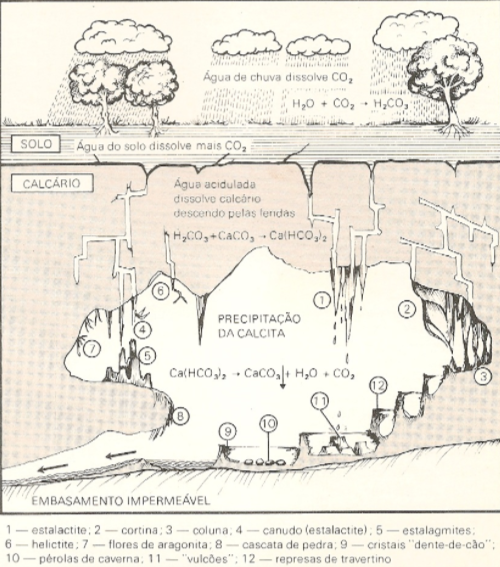
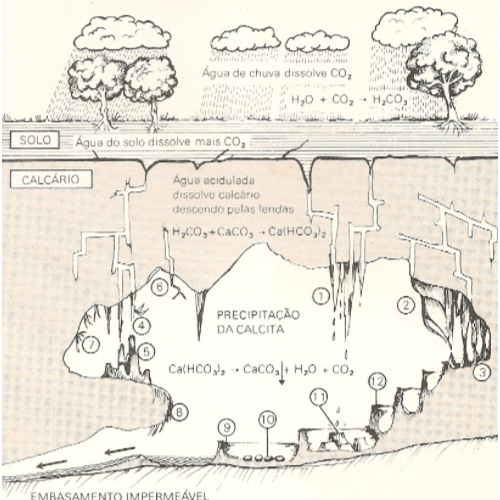
Ajuste finais Adicionado formacao de gruta curiosidades possui 3 topicos mapa adicionado

diff --git a/src/br/com/PalleorrotasDePeterLund/view/estilo.css b/src/br/com/PalleorrotasDePeterLund/view/estilo.css
@@ -44,3 +44,9 @@
 .font-texto{
     -fx-font-size:14px;
 }
+
+.loader{
+    -fx-background-image: url("image/Gruta-do-Maquine.jpg");
+    -fx-background-repeat: no-repeat;
+    -fx-effect: dropshadow(one-pass-box, black, 30, 0.5, 0, 1);
+}

diff --git a/src/br/com/PalleorrotasDePeterLund/view/VisualizarGrutaController.java b/src/br/com/PalleorrotasDePeterLund/view/VisualizarGrutaController.java
@@ -25,16 +25,31 @@ import javafx.beans.value.ObservableValue;
 import javafx.event.Event;
 import javafx.fxml.FXML;
 import javafx.fxml.Initializable;
+import javafx.geometry.Insets;
 import javafx.scene.control.Label;
 import javafx.scene.control.Pagination;
 import javafx.scene.image.Image;
 import javafx.scene.image.ImageView;
 import javafx.scene.input.MouseEvent;
 import javafx.scene.layout.AnchorPane;
+import javafx.scene.layout.Background;
+import javafx.scene.layout.BackgroundFill;
+import javafx.scene.layout.BackgroundImage;
+import javafx.scene.layout.BackgroundPosition;
+import javafx.scene.layout.BackgroundRepeat;
+import javafx.scene.layout.BackgroundSize;
+import javafx.scene.layout.CornerRadii;
 import javafx.scene.layout.FlowPane;
-import javafx.scene.layout.GridPane;
 import javafx.scene.layout.StackPane;
+import javafx.scene.paint.Color;
+import javafx.scene.text.Font;
+import javafx.scene.text.FontPosture;
+import javafx.scene.text.FontWeight;
+import javafx.scene.text.Text;
+import javafx.scene.text.TextAlignment;
+import javafx.scene.text.TextFlow;
 import javafx.scene.web.WebView;
+import javassist.bytecode.ByteArray;
 import org.controlsfx.control.InfoOverlay;
 import org.controlsfx.control.PopOver;
 
@@ -53,8 +68,10 @@ public class VisualizarGrutaController implements Initializable {
     private FlowPane fpFotos;
     @FXML
     private Pagination pgFotos;
+//    @FXML
+//    private WebView wvConteudo;
     @FXML
-    private WebView wvConteudo;
+    private TextFlow tfConteudo;
     @FXML
     private StackPane spImageTexto;
     @FXML
@@ -76,19 +93,29 @@ public class VisualizarGrutaController implements Initializable {
         Platform.runLater(() -> {
             gruta = (Gruta) apPrincipal.getUserData();
             lbTitulo.setText(gruta.getNome());
-            wvConteudo.getEngine().loadContent("<html><head><style>"
-                    + "body {"
-                    + "background-color: #EFFEBA;"
-                    + "color:black;"
-                    + "}"
-                    + "div{"
-                    + "text-align: justify;"
-                    + "}"
-                    + "</style>"
-                    + "<head><body><div>" + gruta.getConteudo());
+
+//            wvConteudo.getEngine().loadContent("<html><head><style>"
+//                    + "body {"
+//                    + "background-color: #EFFEBA;"
+////                    + "background-color: transparent;"
+//                    + "color:white;"
+//                    + "}"
+//                    + "div{"
+//                    + "text-align: justify;"
+//                    + "}"
+//                    + "</style>"
+//                    + "<head><body><div>" + gruta.getConteudo());
+            Text text = new Text(gruta.getConteudo());
+            text.setFont(Font.font(Font.getDefault().getFamily(), FontWeight.BOLD, FontPosture.REGULAR, 20));
+            text.setFill(Color.WHITE);
+            text.setTextAlignment(TextAlignment.JUSTIFY);
+            tfConteudo.setTextAlignment(TextAlignment.JUSTIFY);
+            tfConteudo.getChildren().add(text);
+            tfConteudo.setBackground(new Background(new BackgroundFill(new Color(0, 0, 0, 0.2), CornerRadii.EMPTY, Insets.EMPTY)));
             List<GrutaImagem> grutaImagens = new GrutaImagemDAO().pegarPorGrutaTexto(gruta, true);
             if (!grutaImagens.isEmpty()) {
                 ImageView imageView = new ImageView(new Image(new ByteArrayInputStream(grutaImagens.get(0).getId().getImagem().getImagem())));
+                apConteudo.setBackground(new Background(new BackgroundImage(new Image(new ByteArrayInputStream(grutaImagens.get(0).getId().getImagem().getImagem())), BackgroundRepeat.NO_REPEAT, BackgroundRepeat.NO_REPEAT, BackgroundPosition.CENTER, new BackgroundSize(BackgroundSize.AUTO, BackgroundSize.AUTO, true, true, true, true))));
                 imageView.setPreserveRatio(true);
                 imageView.setFitWidth(400);
                 imageView.setSmooth(true);
@@ -107,7 +134,7 @@ public class VisualizarGrutaController implements Initializable {
     private void tbFotoOnSelectionChanged(Event event) {
         if (imagens == null || imagens.isEmpty()) {
             imagens = new GrutaImagemDAO().pegarPorGruta(gruta);
-            COLUNA=(int) fpFotos.getWidth()/310;
+            COLUNA = (int) fpFotos.getWidth() / 310;
             pgFotos.setPageCount((int) Math.ceil(imagens.size() / (double) (LINHA * COLUNA)));
             carregarImageViews();
             limparImageView();

diff --git a/src/br/com/PalleorrotasDePeterLund/view/MapaInterativoController.java b/src/br/com/PalleorrotasDePeterLund/view/MapaInterativoController.java
@@ -5,9 +5,18 @@
  */
 package br.com.PalleorrotasDePeterLund.view;
 
+import br.com.PalleorrotasDePeterLund.control.ImageFactory;
 import java.net.URL;
 import java.util.ResourceBundle;
+import javafx.application.Platform;
+import javafx.fxml.FXML;
 import javafx.fxml.Initializable;
+import javafx.scene.image.ImageView;
+import javafx.scene.input.MouseEvent;
+import javafx.scene.layout.AnchorPane;
+import javafx.scene.shape.Rectangle;
+import javafx.scene.text.Text;
+import org.controlsfx.control.PopOver;
 
 /**
  * FXML Controller class
@@ -16,12 +25,77 @@ import javafx.fxml.Initializable;
  */
 public class MapaInterativoController implements Initializable {
 
+    @FXML
+    private AnchorPane apPrincipal;
+    @FXML
+    private ImageView ivFoto;
+
+    private PopOver poInformacao;
+
+    private boolean mapa;
+
+    private Text tDescricao;
+
     /**
      * Initializes the controller class.
      */
     @Override
     public void initialize(URL url, ResourceBundle rb) {
-        // TODO
-    }    
-    
+        tDescricao = new Text();
+        poInformacao = new PopOver(tDescricao);
+    }
+
+    @FXML
+    private void rcMaquineMouseEvent(MouseEvent mouseEvent) {
+        if (mapa) {
+            ivFoto.setImage(ImageFactory.loadImage("mapa.jpg"));
+            mapa = false;
+        } else {
+            mostrarConteudo("maquine.png", " distância da Gruta Maquiné à Belo Horizonte é 132km", mouseEvent.getScreenX(), mouseEvent.getSceneY());
+            Platform.runLater(() -> {
+                mapa = true;
+            });
+        }
+    }
+
+    @FXML
+    private void rcLapinhaMouseEvent(MouseEvent mouseEvent) {
+        if (mapa) {
+            ivFoto.setImage(ImageFactory.loadImage("mapa.jpg"));
+            mapa = false;
+        } else {
+            mostrarConteudo("sete lagoa.png", "A distância da Gruta da lapinha à Belo Horizonte é 52km", mouseEvent.getScreenX(), mouseEvent.getSceneY());
+            Platform.runLater(() -> {
+                mapa = true;
+            });
+        }
+    }
+
+    @FXML
+    private void rcReiDoMatMouseEvent(MouseEvent mouseEvent) {
+        if (mapa) {
+            ivFoto.setImage(ImageFactory.loadImage("mapa.jpg"));
+            mapa = false;
+        } else {
+            mostrarConteudo("rei do mato.png", "A distância da Gruta do Rei do Mato à Belo Horizonte é 69km", mouseEvent.getScreenX(), mouseEvent.getSceneY());
+            Platform.runLater(() -> {
+                mapa = true;
+
+            });
+        }
+    }
+
+    @FXML
+    private void ivFotoMouseEvent(MouseEvent mouseEvent) {
+        if (mapa && !(mouseEvent.getSource() instanceof Rectangle)) {
+            ivFoto.setImage(ImageFactory.loadImage("mapa.jpg"));
+            mapa = false;
+        }
+    }
+
+    private void mostrarConteudo(String imagem, String descricao, double x, double y) {
+        ivFoto.setImage(ImageFactory.loadImage(imagem));
+        tDescricao.setText("  "+descricao+"  ");
+        poInformacao.show(ivFoto, x, y);
+    }
 }

diff --git a/src/br/com/PalleorrotasDePeterLund/view/PovoDeLuziaController.java b/src/br/com/PalleorrotasDePeterLund/view/PovoDeLuziaController.java
@@ -8,6 +8,7 @@ package br.com.PalleorrotasDePeterLund.view;
 import br.com.PalleorrotasDePeterLund.control.ImageFactory;
 import java.net.URL;
 import java.util.ResourceBundle;
+import javafx.application.Platform;
 import javafx.fxml.FXML;
 import javafx.fxml.Initializable;
 import javafx.scene.image.ImageView;
@@ -33,13 +34,18 @@ public class PovoDeLuziaController implements Initializable {
      */
     @Override
     public void initialize(URL url, ResourceBundle rb) {
-        ImageView imageView=new ImageView(ImageFactory.loadImage("conteudo/povoDeLuzia.png"));
-        imageView.setFitWidth(300);
-        InfoOverlay infoOverlay = new InfoOverlay(imageView, "Crânios de Lagoa Santa: ossadas da região mineira serviram para formular teoria alternativa de povoamento das Américas\n"
-                + "\n"
-                + "Fonte : Pesquisa FAPESP - A América de Luzia\n"
-                + "Disponível em: http://revistapesquisa.fapesp.br/2012/08/22/a-am%C3%A9rica-de-luzia/");
-        spFoto.getChildren().add(infoOverlay);
+        Platform.runLater(() -> {
+            ImageView imageView = new ImageView(ImageFactory.loadImage("conteudo/povoDeLuzia.png"));
+            imageView.setFitWidth(450);
+            System.out.println(spFoto.getHeight());
+            imageView.setFitHeight(600);
+            imageView.setPreserveRatio(false);
+            InfoOverlay infoOverlay = new InfoOverlay(imageView, "Crânios de Lagoa Santa: ossadas da região mineira serviram para formular teoria alternativa de povoamento das Américas\n"
+                    + "\n"
+                    + "Fonte : Pesquisa FAPESP - A América de Luzia\n"
+                    + "Disponível em: http://revistapesquisa.fapesp.br/2012/08/22/a-am%C3%A9rica-de-luzia/");
+            spFoto.getChildren().add(infoOverlay);
+        });
     }
 
 }

diff --git a/src/br/com/PalleorrotasDePeterLund/view/LuziaController.java b/src/br/com/PalleorrotasDePeterLund/view/LuziaController.java
@@ -6,12 +6,19 @@
 package br.com.PalleorrotasDePeterLund.view;
 
 import br.com.PalleorrotasDePeterLund.control.ImageFactory;
+import java.io.ByteArrayInputStream;
 import java.net.URL;
 import java.util.ResourceBundle;
 import javafx.fxml.FXML;
 import javafx.fxml.Initializable;
+import javafx.scene.image.Image;
 import javafx.scene.image.ImageView;
 import javafx.scene.layout.AnchorPane;
+import javafx.scene.layout.Background;
+import javafx.scene.layout.BackgroundImage;
+import javafx.scene.layout.BackgroundPosition;
+import javafx.scene.layout.BackgroundRepeat;
+import javafx.scene.layout.BackgroundSize;
 import javafx.scene.layout.StackPane;
 import org.controlsfx.control.InfoOverlay;
 
@@ -34,7 +41,9 @@ public class LuziaController implements Initializable {
     public void initialize(URL url, ResourceBundle rb) {
         // TODO
         ImageView imageView = new ImageView(ImageFactory.loadImage("conteudo/luzia.jpg"));
-        imageView.setFitWidth(300);
+        imageView.setFitWidth(450);
+        imageView.setFitHeight(600);
+        imageView.setPreserveRatio(false);
         InfoOverlay infoOverlay = new InfoOverlay(imageView, "Fonte: Fósseis no Brasil - Luzia.\n"
                 + "\n"
                 + "Disponível em: http://www.uol/noticias/especiais/fosseis-no-brasil-onde-estao-registros-humanos-antigos-no-pais.htm#o-brasil-nao-foi-descoberto-em-1500");

diff --git a/src/br/com/PalleorrotasDePeterLund/view/GeologiaRegionalController.java b/src/br/com/PalleorrotasDePeterLund/view/GeologiaRegionalController.java
@@ -5,11 +5,15 @@
  */
 package br.com.PalleorrotasDePeterLund.view;
 
+import br.com.PalleorrotasDePeterLund.control.ImageFactory;
 import java.net.URL;
 import java.util.ResourceBundle;
 import javafx.fxml.FXML;
 import javafx.fxml.Initializable;
+import javafx.scene.image.ImageView;
 import javafx.scene.layout.AnchorPane;
+import javafx.scene.layout.StackPane;
+import org.controlsfx.control.InfoOverlay;
 
 /**
  * FXML Controller class
@@ -20,13 +24,22 @@ public class GeologiaRegionalController implements Initializable {
 
     @FXML
     private AnchorPane apPrincipal;
-    
+    @FXML
+    private StackPane spImagem;
+
     /**
      * Initializes the controller class.
      */
     @Override
     public void initialize(URL url, ResourceBundle rb) {
-        // TODO
+        ImageView imageView = new ImageView(ImageFactory.loadImage("conteudo/Foto da Geologia do Bambuí .png"));
+        imageView.setFitWidth(450);
+        imageView.setFitHeight(600);
+        InfoOverlay infoOverlay = new InfoOverlay(imageView, "Coluna estratigráfica do Grupo Bambuí\n"
+                + "(sensu Dardenne, 1978). O Conglomerado Carrancas\n"
+                + "foi representado na base, embora não constitua\n"
+                + "unidade formal em função de sua ocorrência restrita.");
+        spImagem.getChildren().add(infoOverlay);
     }
 
 }

diff --git a/src/br/com/PalleorrotasDePeterLund/view/FormacaoGrutaController.java b/src/br/com/PalleorrotasDePeterLund/view/FormacaoGrutaController.java
@@ -5,6 +5,7 @@
  */
 package br.com.PalleorrotasDePeterLund.view;
 
+import br.com.PalleorrotasDePeterLund.control.ImageFactory;
 import java.net.URL;
 import java.util.ResourceBundle;
 import javafx.fxml.FXML;
@@ -31,8 +32,9 @@ public class FormacaoGrutaController implements Initializable {
      */
     @Override
     public void initialize(URL url, ResourceBundle rb) {
-        ImageView imageView=new ImageView(new Image(getClass().getResourceAsStream("/br/com/PalleorrotasDePeterLund/view/image/comoForma.png")));
-        imageView.setFitWidth(350);
+        ImageView imageView=new ImageView(ImageFactory.loadImage("comoForma.png"));
+        imageView.setFitWidth(450);
+        imageView.setFitHeight(600);
         InfoOverlay infoOverlay=new InfoOverlay(imageView," 1- estalactite; 2- cortina; 3- coluna; 4-canudo(estalactite) 5- estalagmites, 6-helictite; 7- flores de aragonita; 8- casacata de pedra; 9- cristais \"dente-de-cão\" 10- pérolas de caverna; 11- \"vulcões\" 12- represesas travertino "
                 + "\nFonte: Cavernas Brasileiras; Clayton f. Lino; João Allievi, pg. 43");
         spFoto.getChildren().add(infoOverlay);

diff --git a/src/br/com/PalleorrotasDePeterLund/view/InicioController.java b/src/br/com/PalleorrotasDePeterLund/view/InicioController.java
@@ -6,6 +6,7 @@
 package br.com.PalleorrotasDePeterLund.view;
 
 import br.com.PalleorrotasDePeterLund.control.FxManager;
+import br.com.PalleorrotasDePeterLund.control.ImageFactory;
 import br.com.PalleorrotasDePeterLund.control.Message;
 import br.com.PalleorrotasDePeterLund.control.Sessao;
 import br.com.PalleorrotasDePeterLund.control.dao.GrutaDAO;
@@ -63,6 +64,11 @@ public class InicioController implements Initializable {
         atualizarLogin();
         for (Gruta gruta : new GrutaDAO().pegarPorMuseu(false)) {
             MenuItem menuItem = new MenuItem(gruta.getNome());
+            
+            ImageView imageView=new ImageView(ImageFactory.loadImage("caverna.png"));
+            imageView.setFitHeight(35);
+            imageView.setPreserveRatio(true);
+            menuItem.setGraphic(imageView);
             menuItem.setOnAction((ActionEvent event) -> {
                 apPrincipal.getScene().setRoot(FxManager.carregarComponente("MostrarConteudo", FxManager.carregarComponente("VisualizarGruta", gruta)));
             });

diff --git a/src/br/com/PalleorrotasDePeterLund/view/LoaderController.java b/src/br/com/PalleorrotasDePeterLund/view/LoaderController.java
@@ -16,7 +16,6 @@ import java.util.logging.Level;
 import java.util.logging.Logger;
 import javafx.animation.KeyFrame;
 import javafx.animation.Timeline;
-import javafx.application.Platform;
 import javafx.event.ActionEvent;
 import javafx.fxml.FXML;
 import javafx.fxml.Initializable;
@@ -51,6 +50,7 @@ public class LoaderController implements Initializable {
         Thread thread = new Thread(() -> {
             List<Usuario> usuarios = new UsuarioDAO().pegarTodos();
             //Login Automatico
+            Sessao.usuario=usuarios.get(0);
             
         });
         thread.start();

diff --git a/src/br/com/PalleorrotasDePeterLund/control/Application.java b/src/br/com/PalleorrotasDePeterLund/control/Application.java
@@ -12,7 +12,7 @@ package br.com.PalleorrotasDePeterLund.control;
 public class Application {
 
     public static final double VERSAO = 1.0;
-    public static final String NOME="Palleorrotas de Peter Lund";
+    public static final String NOME="Paleorrotas de Peter Lund";
     public static String SECRET_APP = "52155bdf681ce07fc2bc7a1ae895d145";
     public static String ID_APP = "1769034663357176";
 }

diff --git a/src/br/com/PalleorrotasDePeterLund/view/SobreController.java b/src/br/com/PalleorrotasDePeterLund/view/SobreController.java
@@ -32,7 +32,7 @@ public class SobreController implements Initializable {
     @Override
     public void initialize(URL url, ResourceBundle rb) {
         // TODO
-        new Timeline(new KeyFrame(Duration.millis(1), (ActionEvent event) -> {
+        new Timeline(new KeyFrame(Duration.seconds(5), (ActionEvent event) -> {
             Platform.exit();
             System.exit(0);
         })).play();
